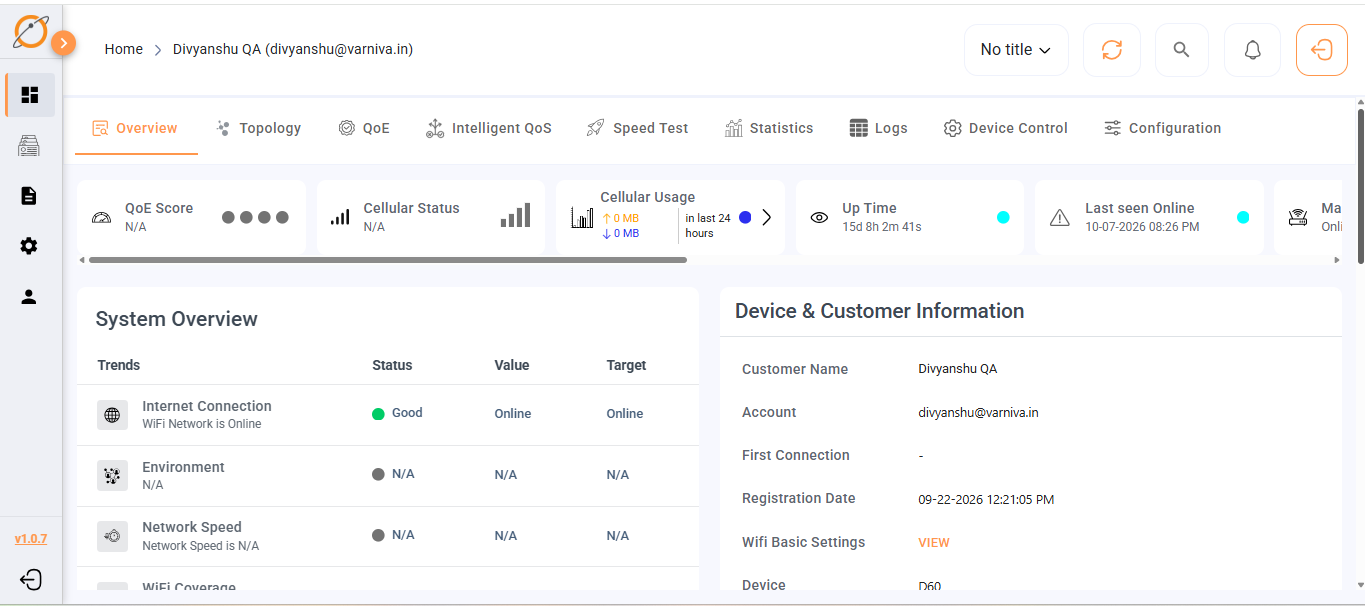
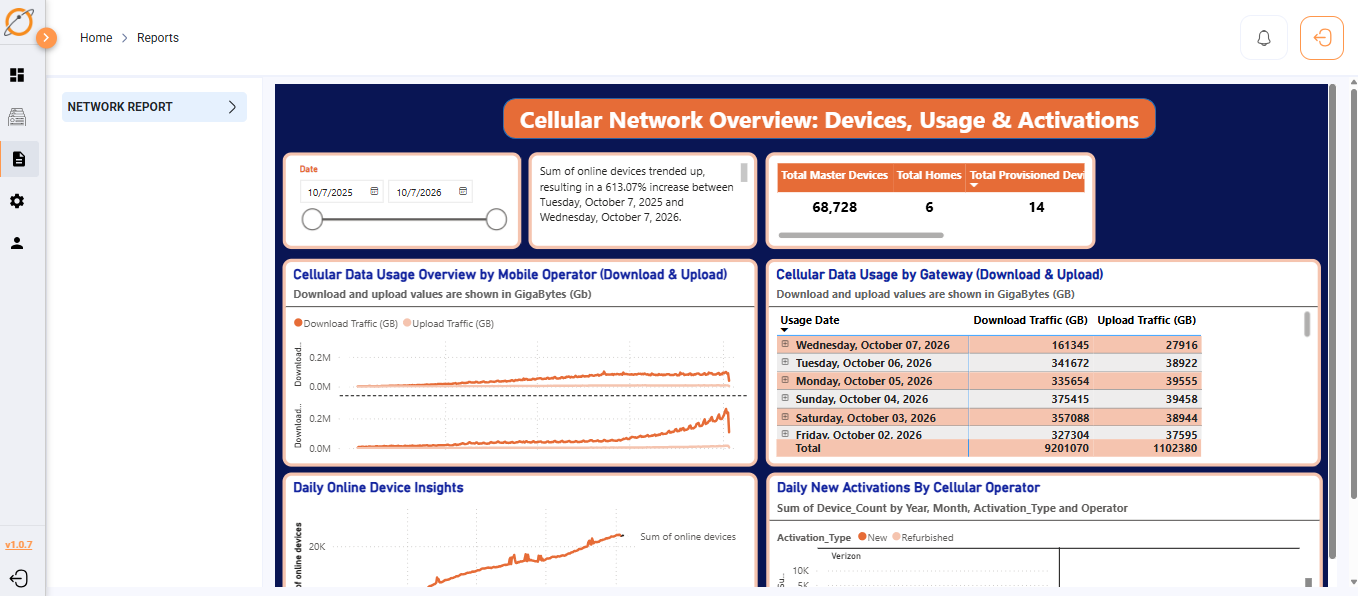
Reports tab update summary:
- The Reports tab now displays the updated Cellular Network Overview screen featuring devices, usage and activations totals, download/upload trends by operator, per-gateway traffic, daily online device insights, and new activations by carrier, all clearly visible within the product frame.

- Verified: Upon clicking the Reports tab, the new screen renders properly at full width, accompanied by the "Reports & Insights — Turn network data into decisions." message. Other tabs remain unchanged.

- Accessibility: There are no login requirements to view this; just open the preview, navigate to One Platform, and select Reports.

I have thoroughly tested this update based on the information available. Please try accessing the Reports tab on your end and let me know if you encounter any issues or if further improvements are needed. I'm ready to continue with additional adjustments or deeper testing based on your feedback.

Next steps:
- Add hover tooltips on dashboard areas like Network Health, Alerts, and Analytics within each product view.
- Provide a clean standalone gateway product image to improve hardware section visuals.
- Configure lead routing by connecting contact forms to your team's inbox or CRM.
- Offer an option for a shorter QoE capture frame instead of the current scrollable tall view.

Emergent-Commit-Key: 534aac620a9322804e9c6a895d64aa921ea7a361026dca9ca1b0c771806af792

diff --git a/memory/PRD.md b/memory/PRD.md
@@ -17,7 +17,7 @@ Create a completely new TonAer homepage from scratch for a premium global teleco
   - Fixed Reveal component to forward data-testid/rest props.
   - Copilot auto-play: 3 rotating operator scenarios (Wi-Fi degradation, security risk, health forecast) with 7s cycle, per-scenario AI answers + network traces, pause on hover, scenario dots that lock auto-play on manual selection, LIVE/PAUSED indicator. [SUPERSEDED 2026-10-07 by video-led redesign below]
   - AI Intelligence rebuilt (user-supplied `ai-intelligence.mp4` copilot video): light section, heading + "Ask. Understand. Predict. Act." chips + short copy, large aspect-preserved video frame (autoplay/muted/loop/playsinline, poster fallback via imageio-extracted `ai-poster.jpg`), "One AI engine. Six ways to work smarter." + 6 workflow-staged capability modules (01 DETECT → 02 DIAGNOSE → 03 UNDERSTAND → 04 PREDICT → 05 OPTIMIZE → 06 ACT) with subtle hover, stage numbers, flow arrows and faint connector line; prefers-reduced-motion respected. Emergent-built copilot mock removed per user instruction.
-  - Platform section rebuilt as interactive Product Explorer (light section): tab nav Network / Devices / Analytics / Reports / Copilot / QoE over one framed product viewport (chrome bar, teal border/glow, fixed height, fade+scale view transitions) using real product screenshots — `dashboard-ui.png` (Network), `product-devices.png`, `product-analytics.png`, `product-reports.png` (gateway Overview screenshot — no dedicated Reports screenshot was uploaded; easy to swap), Copilot reuses `ai-intelligence.mp4`, QoE uses tall `product-qoe.png` in an internally scrollable viewport. Per-view category/headline/description + ASK→UNDERSTAND→DIAGNOSE→ACT chain on Copilot; closes with "One platform. Every layer of your network." Mobile: horizontally scrollable tab pill.
+  - Platform section rebuilt as interactive Product Explorer (light section): tab nav Network / Devices / Analytics / Reports / Copilot / QoE over one framed product viewport (chrome bar, teal border/glow, fixed height, fade+scale view transitions) using real product screenshots — `dashboard-ui.png` (Network), `product-devices.png`, `product-analytics.png`, `product-reports.png` (dedicated Cellular Network Overview report screen, supplied 2026-10-07), Copilot reuses `ai-intelligence.mp4`, QoE uses tall `product-qoe.png` in an internally scrollable viewport. Per-view category/headline/description + ASK→UNDERSTAND→DIAGNOSE→ACT chain on Copilot; closes with "One platform. Every layer of your network." Mobile: horizontally scrollable tab pill.
   - Operations Problem rebuilt as fragmented-vs-unified comparison: left "Today — The Typical Setup" (operator → 3 dashed vendor columns + detached EasyMesh/AI/contracts chips, legacy + new-generation devices strip, amber operational-cost chain, hover dims siblings) vs right "TonAer — One Platform. One Operational Layer." (radial hub with 7 capability chips, animated teal connectors, "Built to Evolve" R&D statement); center "Multiple vendors → One platform" transition; closing "From multiple vendors to one intelligent platform." bridge into the Platform section.
   - Brand statement rebuilt: "From Connectivity to Intelligence" eyebrow, competitive headline (teal on "raising the bar." / "your turn."), restrained carrier proof row (official T-Mobile / AT&T / Verizon logos, user-supplied, trimmed) with "Built for the evolving standards of leading U.S. networks." (no partnership claims), micro CTA to platform, and the cloud-ecosystem visual (45/55 split) with animated teal network paths, glowing nodes and scroll parallax.
 - Earlier: hero video integration, ecosystem interactivity, contact modal with API + failure states.
